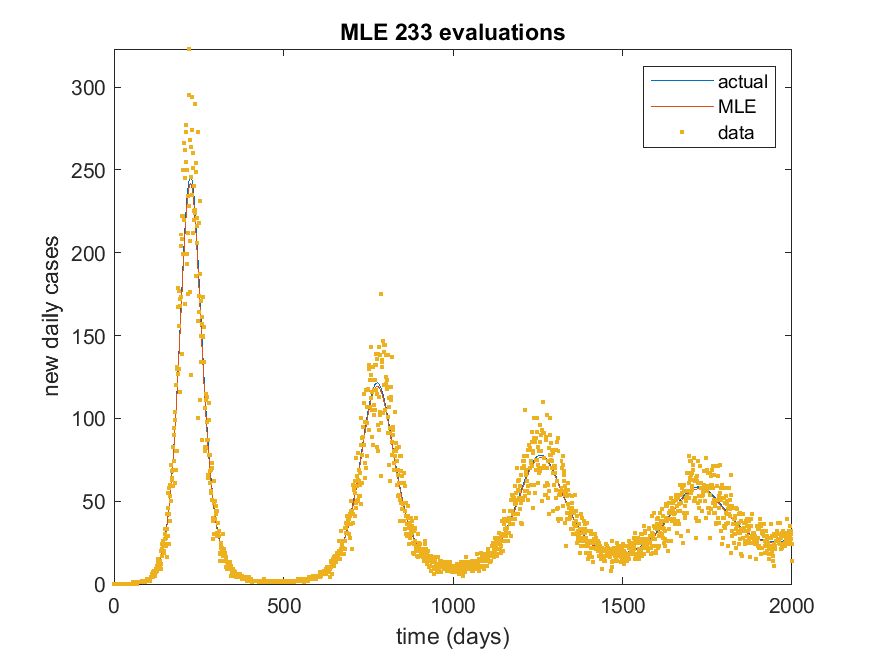
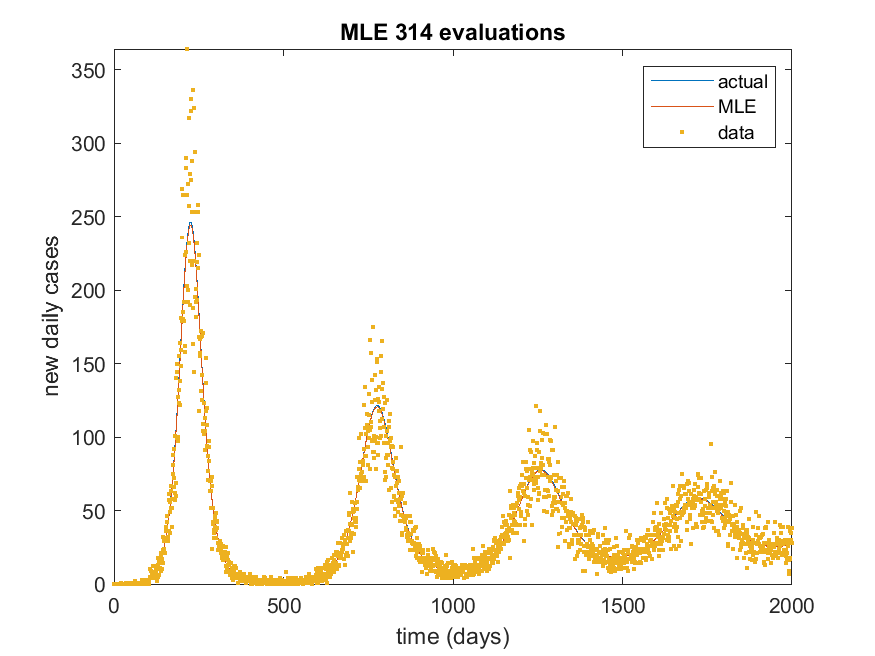
Using NegBin noise for SEIR model

diff --git a/main.m b/main.m
@@ -13,7 +13,7 @@ savFolder = "figures/";
 
 nMesh = 21;     % number of points in parameter mesh for profiles
 
-modelLbl = ["SEIR"];        % labels for models - can include "SEIR", "LV", "RAD-PDE"
+modelLbl = ["SEIR"];        % labels for models - can include "SEIR", "LV", "RAD_PDE"
 
 options = optimoptions('fmincon', 'Display', 'off');
 
@@ -46,23 +46,26 @@ for iModel = 1:nModels
         
         % Specify true values of parameters to be fitted
         parLbl = ["R0", "tR", "pObs", "obsSD"];
-        ThetaTrue = [1.3; 300; 0.01; 0.2];
+        ThetaTrue = [1.3; 300; 0.01; 30];
 
         % Indices and values of parameters in parLbl to optimise without re-evaluating forward model in the improved method
         parsToOptimise = 3;
         runningValues = 1;      % always run forward model with pObs = 1 under the improved method
 
         % Initial guess for fitted parameters [R0, tR, pObs, obsSD]
-        Theta0 = [1.5; 400; 0.1; 0.4];
+        Theta0 = [1.5; 400; 0.1; 25];
+
                
         % Define lower and upper bounds on fitted parameters
         lb = [0; 0; 0; 0];
-        ub = [20; 2000; 1; 2];
+        ub = [20; 2000; 1; 100];
         
         % Profile intervals for each parameter
-        ThetaLower = [1.2; 250; 0.005; 0.15];
-        ThetaUpper = [1.4; 350; 0.015; 0.4];
-    
+        ThetaLower = [1.2; 250; 0.005; 25];
+        ThetaUpper = [1.4; 350; 0.015; 35];
+
+
+
     elseif modelLbl(iModel) == "LV"
         % Functions defining LV model and parameter ranges and initial conditions for MLE
         getPar = @getParLV;

diff --git a/functions/LLfunc.m b/functions/LLfunc.m
@@ -24,7 +24,9 @@ elseif par.noiseModel == "poisson"
     Ci = [0, cumsum( log(1:max(yData)) )]';  % vector of cumulative sum of log(integers) for efficient calculation of log(k!) in LL
     LL = sum( yData.*log(yMean_pos) - yMean_pos - Ci(1+yData) ); 
 elseif par.noiseModel == "negbin"       % NegBin with dispersion factor k
-    LL = nPoints * (-gammaln(par.obsK) + par.obsK*log(par.obsK)) + sum( gammaln(yData+par.obsK) - gammaln(yData+1) + yData.*log(yMean) - (yData+par.obsK).*log(yMean+par.obsK) );
+    yMean_pos = max(small, yMean);   % To avoid numerical problems, replace non-positive values with a small positive number
+
+    LL = nPoints * (-gammaln(par.obsK) + par.obsK*log(par.obsK)) + sum( gammaln(yData+par.obsK) - gammaln(yData+1) + yData.*log(yMean_pos) - (yData+par.obsK).*log(yMean_pos+par.obsK) );
 else
    error("par.noiseModel type needs to be one of: 'const', 'propMean', 'poisson', 'negbin'");
 end

diff --git a/functions/getParSEIR.m b/functions/getParSEIR.m
@@ -18,7 +18,8 @@ par.pObs = Theta(3);        % proportion of infections observed
 par.tObs = 3;           % avg time from becoming infectious to being observed (days)
 
 % Noise model and parameters
-par.noiseModel = "norm_SD_propMean";        % noise model is normal with SD proportional to mean
-par.obsIntFlag = 1;     % set flag to indicate observations are rounded to integer values
-par.obsSD = Theta(4);        % SD of multiplicative noise on observed values
-
+% par.noiseModel = "norm_SD_propMean";        % noise model is normal with SD proportional to mean
+% par.obsIntFlag = 1;     % set flag to indicate observations are rounded to integer values
+% par.obsSD = Theta(4);        % SD of multiplicative noise on observed values
+par.noiseModel = "negbin";
+par.obsK = Theta(4);

diff --git a/functions/solveModelRAD_PDE.m b/functions/solveModelRAD_PDE.m
@@ -1,0 +1,27 @@
+function sol = solveModelLV(par)
+
+tSpan = 0:1:par.tMax;
+
+% Set initial condition
+IC = par.y0;
+
+% Solve ODE
+[t, Y] = ode45(@(t, x)odesLV(t, x, par), tSpan, IC);
+
+% If ODE solution terminates before tMax (because of numerical problems), pad solution with Y=infinity 
+if t(end) < par.tMax
+    nVars = length(IC);
+    tPad = ((t(end)+1):1:par.tMax)';
+    nPad = length(tPad);
+    t = [t; tPad];
+    Y = [Y; inf*ones(nPad, nVars)];
+end
+
+% Extract solution variables from ODE solver output
+sol.t = t;
+sol.prey = Y(:, 1);                            % susceptible
+sol.pred = Y(:, 2);                            % exposed
+
+% Calculate mean (expected) observations
+sol.eObs = par.pObs*[sol.prey, sol.pred];
+

diff --git a/functions/getParRAD_PDE.m b/functions/getParRAD_PDE.m
@@ -1,0 +1,15 @@
+function par = getParRAD_PDE(Theta);
+
+% Simulation parameters
+par.tMax = 100;        % simulation time
+par.C0 = 100;          % boundary condition
+                        
+
+
+
+
+% Noise model and parameters
+par.noiseModel = "norm_SD_const";        % noise model is normal with SD proportional to mean
+par.obsIntFlag = 0;     % set flag to indicate observations are rounded to integer values
+par.obsSD = Theta(4);        % SD of noise on observed values
+

diff --git a/functions/transformSolution_OgataBanks.m b/functions/transformSolution_OgataBanks.m
@@ -1,0 +1,8 @@
+function eObs = transformSolution_OgataBanks(Phi, sol) 
+
+% Transform function for the SEIR model (and possibly others)
+% In this model, the optimised parameter Phi represent pObs, the probability that an infection is reported as a case.
+% This simply mutliplies the expected observation in the solution to the model where pObs=1
+
+eObs = Phi * sol.eObs;
+

diff --git a/functions/genObs.m b/functions/genObs.m
@@ -16,6 +16,6 @@ else
    error("noiseModel type needs to be one of: 'const', 'propMean', 'poisson', 'negbin'");
 end
 
-if par.obsIntFlag
+if ismember(par.noiseModel, ["norm_SD_const", "norm_SD_propMean"]) && par.obsIntFlag
     obs = round(obs);
 end
